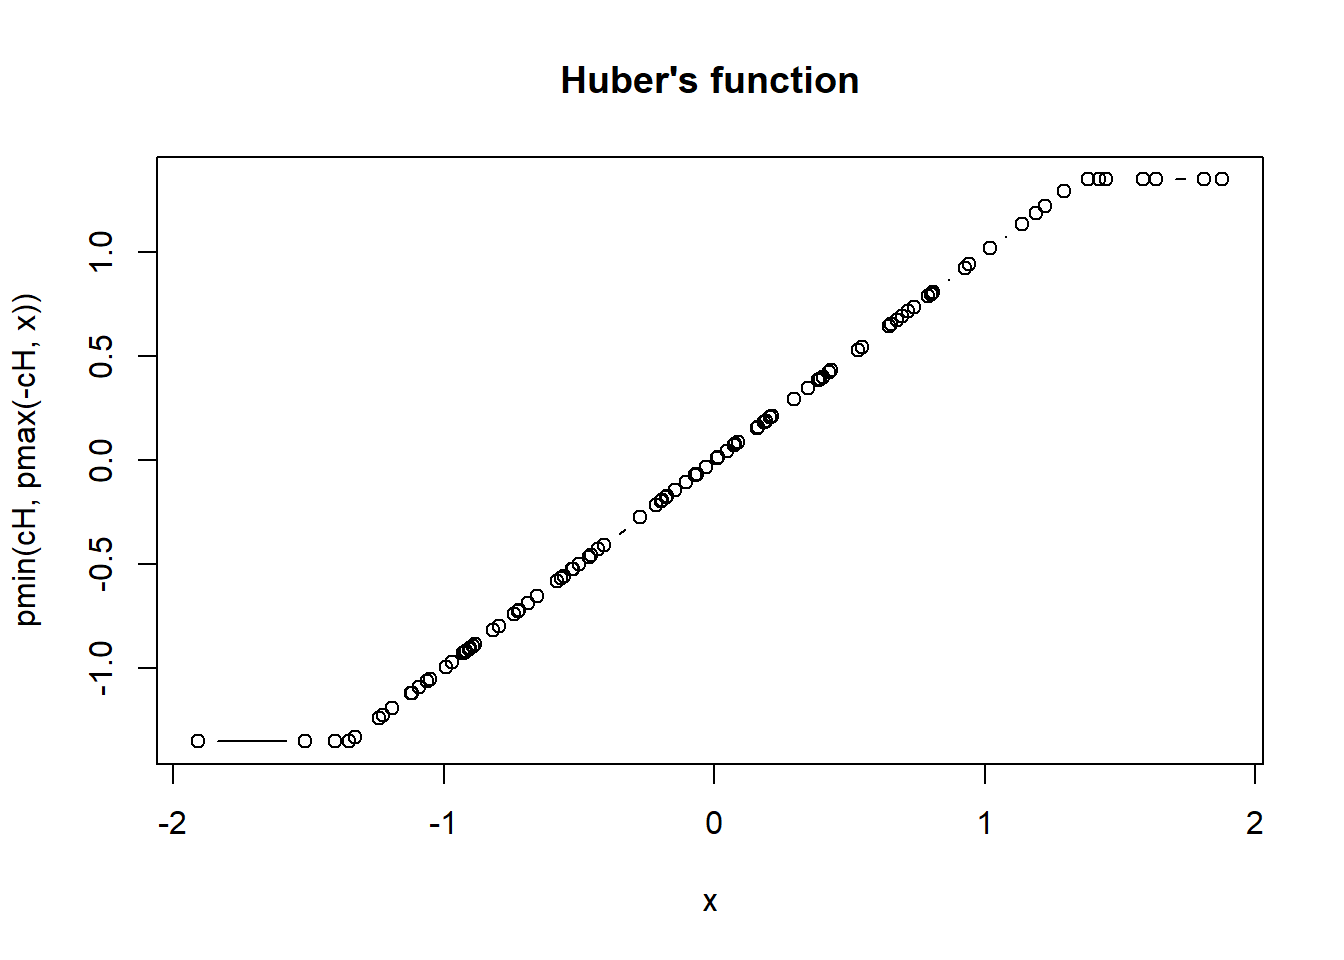
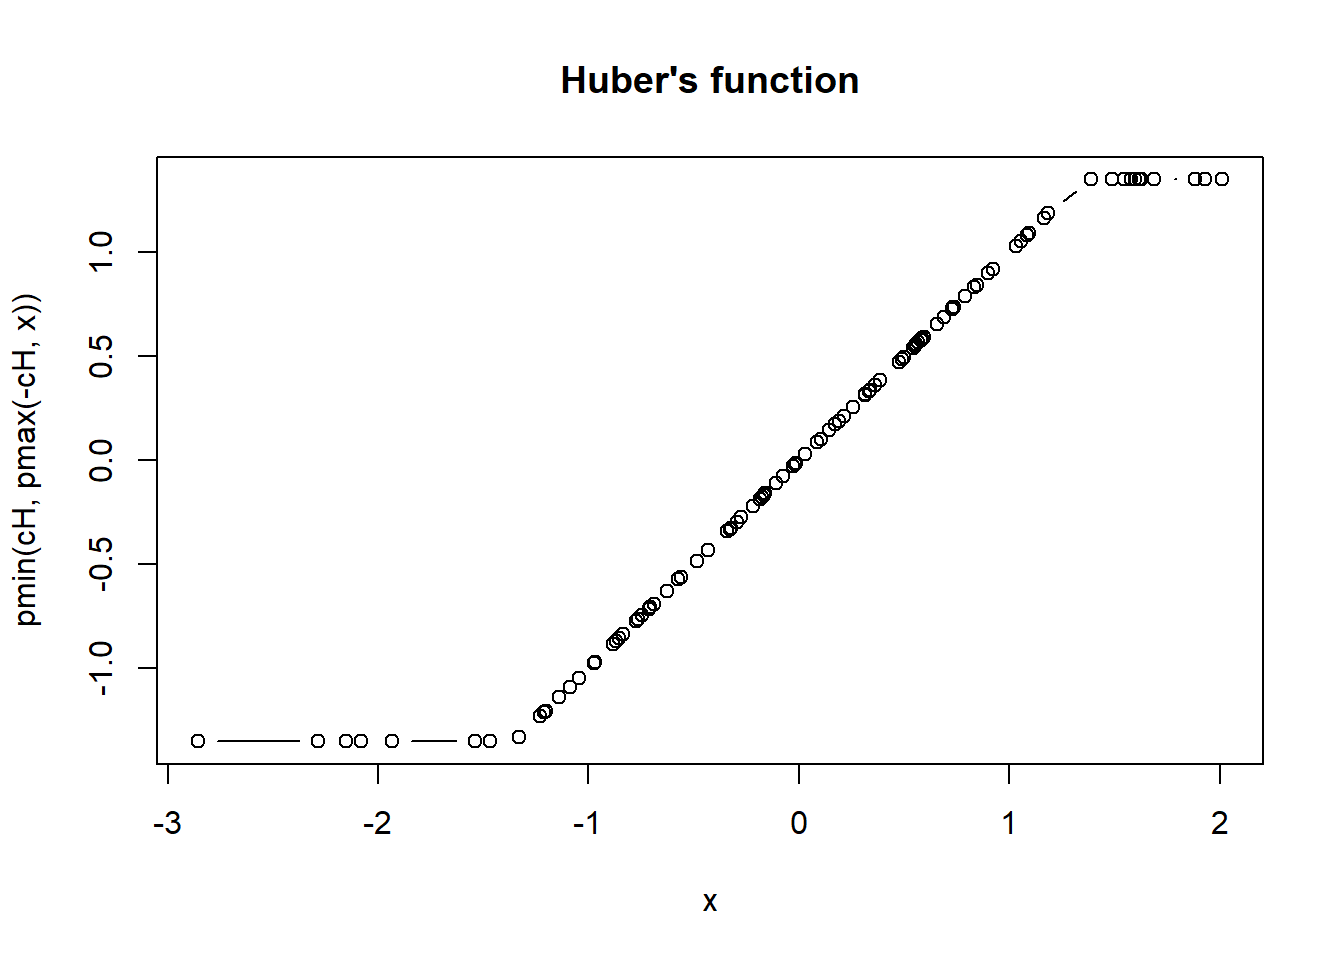
rwa

diff --git a/docs/intro.html b/docs/intro.html
@@ -24,7 +24,7 @@
 <meta name="author" content="" />
 
 
-<meta name="date" content="2019-08-05" />
+<meta name="date" content="2020-04-09" />
 
   <meta name="viewport" content="width=device-width, initial-scale=1" />
   <meta name="apple-mobile-web-app-capable" content="yes" />
@@ -164,25 +164,25 @@ code span.wa { color: #60a0b0; font-weight: bold; font-style: italic; } /* Warni
 </ul></li>
 <li class="chapter" data-level="3.7" data-path="estruturas-de-dados.html"><a href="estruturas-de-dados.html#referencia-1"><i class="fa fa-check"></i><b>3.7</b> Referência</a></li>
 </ul></li>
-<li class="chapter" data-level="4" data-path="entrada-de-dados.html"><a href="entrada-de-dados.html"><i class="fa fa-check"></i><b>4</b> Entrada de dados</a><ul>
-<li class="chapter" data-level="4.1" data-path="entrada-de-dados.html"><a href="entrada-de-dados.html#onde-os-dados-devem-estar"><i class="fa fa-check"></i><b>4.1</b> Onde os dados devem estar?</a></li>
-<li class="chapter" data-level="4.2" data-path="entrada-de-dados.html"><a href="entrada-de-dados.html#entrando-com-dados"><i class="fa fa-check"></i><b>4.2</b> Entrando com dados</a><ul>
-<li class="chapter" data-level="4.2.1" data-path="entrada-de-dados.html"><a href="entrada-de-dados.html#vetores"><i class="fa fa-check"></i><b>4.2.1</b> Vetores</a></li>
-<li class="chapter" data-level="4.2.2" data-path="entrada-de-dados.html"><a href="entrada-de-dados.html#usando-a-funcao-scan"><i class="fa fa-check"></i><b>4.2.2</b> Usando a função scan</a></li>
-<li class="chapter" data-level="4.2.3" data-path="entrada-de-dados.html"><a href="entrada-de-dados.html#copiar-e-colar-usando-scan"><i class="fa fa-check"></i><b>4.2.3</b> Copiar e colar usando scan()</a></li>
-<li class="chapter" data-level="4.2.4" data-path="entrada-de-dados.html"><a href="entrada-de-dados.html#lendo-dados-atraves-da-area-de-transferencia"><i class="fa fa-check"></i><b>4.2.4</b> Lendo dados através da área de transferência</a></li>
-<li class="chapter" data-level="4.2.5" data-path="entrada-de-dados.html"><a href="entrada-de-dados.html#usando-a-funcao-edit"><i class="fa fa-check"></i><b>4.2.5</b> Usando a função edit</a></li>
-<li class="chapter" data-level="4.2.6" data-path="entrada-de-dados.html"><a href="entrada-de-dados.html#lendo-dados-de-um-arquivo-texto"><i class="fa fa-check"></i><b>4.2.6</b> Lendo dados de um arquivo texto</a></li>
-<li class="chapter" data-level="4.2.7" data-path="entrada-de-dados.html"><a href="entrada-de-dados.html#dados-do-tipo-csv"><i class="fa fa-check"></i><b>4.2.7</b> Dados do tipo CSV</a></li>
-<li class="chapter" data-level="4.2.8" data-path="entrada-de-dados.html"><a href="entrada-de-dados.html#a-seguir-listamos-algumas-destas-funcoes"><i class="fa fa-check"></i><b>4.2.8</b> A seguir listamos algumas destas funções:</a></li>
-<li class="chapter" data-level="4.2.9" data-path="entrada-de-dados.html"><a href="entrada-de-dados.html#lendo-dados-disponiveis-na-web"><i class="fa fa-check"></i><b>4.2.9</b> Lendo dados disponíveis na web</a></li>
-<li class="chapter" data-level="4.2.10" data-path="entrada-de-dados.html"><a href="entrada-de-dados.html#lendo-dados-de-uma-planilha-eletronica"><i class="fa fa-check"></i><b>4.2.10</b> Lendo dados de uma planilha eletrônica</a></li>
-<li class="chapter" data-level="4.2.11" data-path="entrada-de-dados.html"><a href="entrada-de-dados.html#exercicios"><i class="fa fa-check"></i><b>4.2.11</b> Exercícios</a></li>
+<li class="chapter" data-level="4" data-path="entrada-de-dados-teste-22-ds.html"><a href="entrada-de-dados-teste-22-ds.html"><i class="fa fa-check"></i><b>4</b> Entrada de dados teste 22 ds</a><ul>
+<li class="chapter" data-level="4.1" data-path="entrada-de-dados-teste-22-ds.html"><a href="entrada-de-dados-teste-22-ds.html#onde-os-dados-devem-estar"><i class="fa fa-check"></i><b>4.1</b> Onde os dados devem estar?</a></li>
+<li class="chapter" data-level="4.2" data-path="entrada-de-dados-teste-22-ds.html"><a href="entrada-de-dados-teste-22-ds.html#entrando-com-dados"><i class="fa fa-check"></i><b>4.2</b> Entrando com dados</a><ul>
+<li class="chapter" data-level="4.2.1" data-path="entrada-de-dados-teste-22-ds.html"><a href="entrada-de-dados-teste-22-ds.html#vetores"><i class="fa fa-check"></i><b>4.2.1</b> Vetores</a></li>
+<li class="chapter" data-level="4.2.2" data-path="entrada-de-dados-teste-22-ds.html"><a href="entrada-de-dados-teste-22-ds.html#usando-a-funcao-scan"><i class="fa fa-check"></i><b>4.2.2</b> Usando a função scan</a></li>
+<li class="chapter" data-level="4.2.3" data-path="entrada-de-dados-teste-22-ds.html"><a href="entrada-de-dados-teste-22-ds.html#copiar-e-colar-usando-scan"><i class="fa fa-check"></i><b>4.2.3</b> Copiar e colar usando scan()</a></li>
+<li class="chapter" data-level="4.2.4" data-path="entrada-de-dados-teste-22-ds.html"><a href="entrada-de-dados-teste-22-ds.html#lendo-dados-atraves-da-area-de-transferencia"><i class="fa fa-check"></i><b>4.2.4</b> Lendo dados através da área de transferência</a></li>
+<li class="chapter" data-level="4.2.5" data-path="entrada-de-dados-teste-22-ds.html"><a href="entrada-de-dados-teste-22-ds.html#usando-a-funcao-edit"><i class="fa fa-check"></i><b>4.2.5</b> Usando a função edit</a></li>
+<li class="chapter" data-level="4.2.6" data-path="entrada-de-dados-teste-22-ds.html"><a href="entrada-de-dados-teste-22-ds.html#lendo-dados-de-um-arquivo-texto"><i class="fa fa-check"></i><b>4.2.6</b> Lendo dados de um arquivo texto</a></li>
+<li class="chapter" data-level="4.2.7" data-path="entrada-de-dados-teste-22-ds.html"><a href="entrada-de-dados-teste-22-ds.html#dados-do-tipo-csv"><i class="fa fa-check"></i><b>4.2.7</b> Dados do tipo CSV</a></li>
+<li class="chapter" data-level="4.2.8" data-path="entrada-de-dados-teste-22-ds.html"><a href="entrada-de-dados-teste-22-ds.html#a-seguir-listamos-algumas-destas-funcoes"><i class="fa fa-check"></i><b>4.2.8</b> A seguir listamos algumas destas funções:</a></li>
+<li class="chapter" data-level="4.2.9" data-path="entrada-de-dados-teste-22-ds.html"><a href="entrada-de-dados-teste-22-ds.html#lendo-dados-disponiveis-na-web"><i class="fa fa-check"></i><b>4.2.9</b> Lendo dados disponíveis na web</a></li>
+<li class="chapter" data-level="4.2.10" data-path="entrada-de-dados-teste-22-ds.html"><a href="entrada-de-dados-teste-22-ds.html#lendo-dados-de-uma-planilha-eletronica"><i class="fa fa-check"></i><b>4.2.10</b> Lendo dados de uma planilha eletrônica</a></li>
+<li class="chapter" data-level="4.2.11" data-path="entrada-de-dados-teste-22-ds.html"><a href="entrada-de-dados-teste-22-ds.html#exercicios"><i class="fa fa-check"></i><b>4.2.11</b> Exercícios</a></li>
 </ul></li>
-<li class="chapter" data-level="4.3" data-path="entrada-de-dados.html"><a href="entrada-de-dados.html#salvar-objetos-de-dados"><i class="fa fa-check"></i><b>4.3</b> Salvar objetos de dados</a><ul>
-<li class="chapter" data-level="4.3.1" data-path="entrada-de-dados.html"><a href="entrada-de-dados.html#outras-funcoes"><i class="fa fa-check"></i><b>4.3.1</b> Outras funções</a></li>
+<li class="chapter" data-level="4.3" data-path="entrada-de-dados-teste-22-ds.html"><a href="entrada-de-dados-teste-22-ds.html#salvar-objetos-de-dados"><i class="fa fa-check"></i><b>4.3</b> Salvar objetos de dados</a><ul>
+<li class="chapter" data-level="4.3.1" data-path="entrada-de-dados-teste-22-ds.html"><a href="entrada-de-dados-teste-22-ds.html#outras-funcoes"><i class="fa fa-check"></i><b>4.3.1</b> Outras funções</a></li>
 </ul></li>
-<li class="chapter" data-level="4.4" data-path="entrada-de-dados.html"><a href="entrada-de-dados.html#referencia-2"><i class="fa fa-check"></i><b>4.4</b> Referência</a></li>
+<li class="chapter" data-level="4.4" data-path="entrada-de-dados-teste-22-ds.html"><a href="entrada-de-dados-teste-22-ds.html#referencia-2"><i class="fa fa-check"></i><b>4.4</b> Referência</a></li>
 </ul></li>
 <li class="chapter" data-level="" data-path="references.html"><a href="references.html"><i class="fa fa-check"></i>References</a></li>
 <li class="divider"></li>
@@ -207,7 +207,7 @@ code span.wa { color: #60a0b0; font-weight: bold; font-style: italic; } /* Warni
             <section class="normal" id="section-">
 <div id="intro" class="section level1">
 <h1><span class="header-section-number">Chapter 2</span> R Básico</h1>
-<p>Este primeiro Capitulo foi baseado no curso on-line <em>Code School Try R</em> e <em>Datacamp</em>, modificações foram realizadas utilizando outros materiais que se encontram referenciado no final do Capitulo.</p>
+<p>Este primeigfgfdgdfgro lklkkkCapitulo foi baseado no curso on-line <em>Code School Try R</em> e <em>Datacamp</em>, modificações foram realizadas utilizando outros materiais que se encontram referenciado no final do Capitulo.</p>
 <p>Iremos abordar as expressões básicas do R.
 Começaremos simples, com <strong>números</strong>, <strong>strings</strong> e valores <strong>true/false</strong>. Em seguida, mostraremos como armazenar esses valores em variáveis e como transmiti-los as funções. Como obter ajuda sobre as funções e no final vamos carregar um arquivo</p>
 <div id="expressoes" class="section level2">
@@ -283,11 +283,11 @@ Tente atribuir “Engenharia Agrícola”em x.</p>
 ## min&gt; x &lt;- sort(rnorm(100));  cH &lt;- 1.35
 ## 
 ## min&gt; pmin(cH, quantile(x)) # no names
-## [1] -1.90843544 -0.75454169 -0.06871139  0.64860190  1.35000000
+## [1] -2.8568824 -0.7074100  0.1241785  0.7303738  1.3500000
 ## 
 ## min&gt; pmin(quantile(x), cH) # has names
-##          0%         25%         50%         75%        100% 
-## -1.90843544 -0.75454169 -0.06871139  0.64860190  1.35000000 
+##         0%        25%        50%        75%       100% 
+## -2.8568824 -0.7074100  0.1241785  0.7303738  1.3500000 
 ## 
 ## min&gt; plot(x, pmin(cH, pmax(-cH, x)), type = &quot;b&quot;, main =  &quot;Huber&#39;s function&quot;)</code></pre>
 <p><img src="TudodoR_files/figure-html/unnamed-chunk-14-1.png" width="672" /></p>
